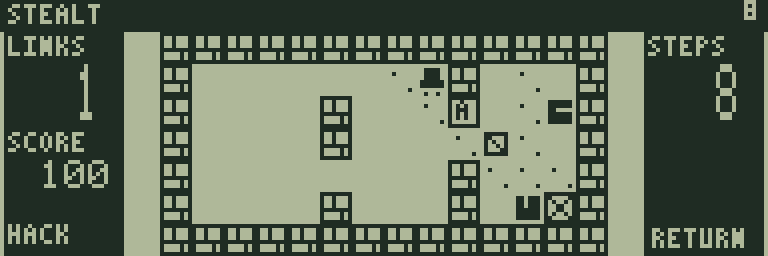
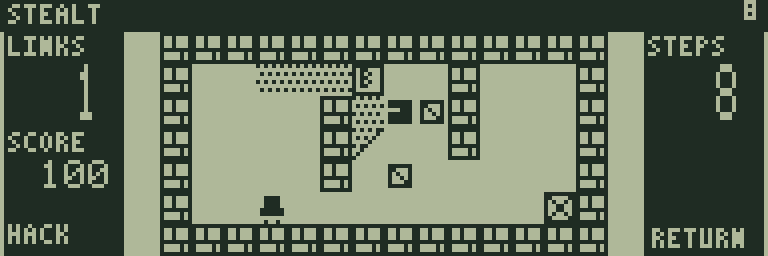
Render filled SIGNAL GHOST light cones and retune stealth stages

diff --git a/tests/game_rules_test.cpp b/tests/game_rules_test.cpp
@@ -525,8 +525,47 @@ int main(int argc,char** argv){try{
   for(unsigned wanted=0;wanted<12;++wanted){unsigned seed=1;while((((seed>>1)^((seed&1)?0xb8:0))%12)!=wanted)++seed;f.put("seed",seed);f.put("stage",2);f.put("rogue_floor",4);f.call("rogue_load_room");require(f.get("rogue_room")==wanted&&f.get("rogue_health")==12&&f.get("rogue_health",1)==7&&f.get("rogue_left")==3,"All twelve templates load their enemy spawns and selected-difficulty strong enemy");f.call("rogue_trace");for(unsigned p=0;p<98;++p)if(f.get("board",p)!=1)require(f.get("rogue_distance",p)!=255,"All items and exits remain connected in every template");}
  }
  if(selected("signal-ghost")){
-  Fixture f(root,"signal-ghost");const std::array<std::pair<int,int>,8> vectors{{{0,-1},{1,-1},{1,0},{1,1},{0,1},{-1,1},{-1,0},{-1,-1}}};std::uint32_t random=0x420042;
-  for(unsigned trial=0;trial<320;++trial){std::array<unsigned,98> board{},vision{};const std::array<unsigned,3> cameras{trial%98,(trial+33)%98,(trial+65)%98},bases{trial%4,(trial/3)%4,(trial/7)%4};const unsigned tick=trial%4,disabled=(trial/4)%4;for(unsigned p=0;p<98;++p){random=random*1664525U+1013904223U;board[p]=random%4==0?1:0;f.put("board",board[p],p);}for(unsigned actor=0;actor<3;++actor){board[cameras[actor]]=0;f.put("board",0,cameras[actor]);f.put("signal_cameras",cameras[actor],actor);f.put("signal_bases",bases[actor],actor);}for(unsigned actor=0;actor<3;++actor){if(disabled&(actor==1?2:1))continue;for(int ray=-1;ray<=1;++ray){const auto [dx,dy]=vectors[(static_cast<int>((bases[actor]+tick)*2)+ray+8)%8];int x=static_cast<int>(cameras[actor]%14),y=static_cast<int>(cameras[actor]/14);for(unsigned n=0;n<4;++n){x+=dx;y+=dy;if(x<0||x>=14||y<0||y>=7)break;const unsigned q=static_cast<unsigned>(y*14+x);if(board[q]==1||std::find(cameras.begin(),cameras.end(),q)!=cameras.end())break;vision[q]=1;}}}f.put("signal_tick",tick);f.put("signal_disabled",disabled);f.call("signal_trace");for(unsigned p=0;p<98;++p)require(f.get("signal_vision",p)==vision[p],"Rotating three-ray cameras clip edges and stop at walls or other cameras for every network mask");}
+  Fixture f(root,"signal-ghost");std::uint32_t random=0x420042;
+  const std::array<std::array<unsigned,2>,4> edge_shapes{{{2,1},{8,2},{4,8},{1,4}}};
+  for(unsigned trial=0;trial<320;++trial){
+   std::array<unsigned,98> board{},vision{},light{};
+   const std::array<unsigned,3> cameras{trial%98,(trial+33)%98,(trial+65)%98},bases{trial%4,(trial/3)%4,(trial/7)%4};
+   const unsigned tick=trial%4,disabled=(trial/4)%4;
+   for(unsigned p=0;p<98;++p){random=random*1664525U+1013904223U;board[p]=random%4==0?1:0;f.put("board",board[p],p);}
+   for(unsigned actor=0;actor<3;++actor){board[cameras[actor]]=0;f.put("board",0,cameras[actor]);f.put("signal_cameras",cameras[actor],actor);f.put("signal_bases",bases[actor],actor);}
+   for(unsigned actor=0;actor<3;++actor){
+    if(disabled&(actor==1?2:1))continue;
+    const unsigned facing=(bases[actor]+tick)%4;
+    for(int end=-4;end<=4;++end)for(int depth=1;depth<=4;++depth){
+     const int side=(end<0?-1:1)*((std::abs(end)*depth+2)/4);
+     int dx=side,dy=-depth;
+     for(unsigned turn=0;turn<facing;++turn){const int next=-dy;dy=dx;dx=next;}
+     const int x=static_cast<int>(cameras[actor]%14)+dx,y=static_cast<int>(cameras[actor]/14)+dy;
+     if(x<0||x>=14||y<0||y>=7)break;
+     const unsigned q=static_cast<unsigned>(y*14+x);
+     if(board[q]==1||std::find(cameras.begin(),cameras.end(),q)!=cameras.end())break;
+     vision[q]=1;light[q]|=std::abs(side)<depth?15:edge_shapes[facing][side>0];
+    }
+   }
+   f.put("signal_tick",tick);f.put("signal_disabled",disabled);f.call("signal_trace");
+   for(unsigned p=0;p<98;++p){
+    require(f.get("signal_vision",p)==vision[p],"Filled camera cones clip edges and stop at walls or cameras for every network mask");
+    require(f.get("signal_lightmask",p)==light[p],"Triangular light pieces combine as a union when cameras overlap");
+   }
+  }
+  const std::array<unsigned,4> origins{76,45,20,52};
+  for(unsigned facing=0;facing<4;++facing){
+   f.fill("board",98,0);f.put("signal_tick",0);f.put("signal_disabled",2);
+   for(unsigned actor:{0,2}){f.put("signal_cameras",origins[facing],actor);f.put("signal_bases",facing,actor);}
+   f.put("signal_cameras",0,1);f.call("signal_trace");
+   for(unsigned p=0;p<98;++p){
+    int side=static_cast<int>(p%14)-static_cast<int>(origins[facing]%14),forward=static_cast<int>(p/14)-static_cast<int>(origins[facing]/14);
+    for(unsigned turn=0;turn<facing;++turn){const int next=forward;forward=-side;side=next;}
+    forward=-forward;
+    const bool inside=forward>=1&&forward<=4&&std::abs(side)<=forward;
+    require(f.get("signal_vision",p)==static_cast<unsigned>(inside),"Every cell inside the ninety-degree cone is monitored, including former gaps between rays");
+   }
+  }
   f.fill("board",98,0);f.put("board",2,45);f.put("cursor",45);f.put("signal_cameras",43);f.put("signal_cameras",80,1);f.put("signal_cameras",30,2);f.put("signal_bases",0);f.put("signal_bases",0,1);f.put("signal_bases",1,2);f.put("signal_tick",0);f.put("signal_disabled",2);f.put("grid_stat",1);f.put("signal_score",0);f.put("signal_score",0,1);f.put("input_event",16);f.put("phase",2);f.call("game_update");require(f.get("signal_disabled")==3&&f.get("grid_stat")==0&&f.get("signal_score",1)==100&&f.get("phase")==2,"A terminal removes its entire network before the rotated view checks the player");f.call("game_update");require(f.get("signal_score",1)==100&&f.get("grid_stat")==0,"Disabled terminals cannot score or decrement links twice");
   for(unsigned moves:{0,99,100,254,255}){f.fill("board",98,0);f.put("board",4,45);f.put("cursor",45);f.put("signal_disabled",3);f.put("signal_score",0);f.put("signal_score",200,1);f.put("moves",moves);f.put("phase",2);f.call("signal_turn");const unsigned turns=std::min(255U,moves+1),score=200+(turns<100?100-turns:0);require(f.get("phase")==4&&f.get("moves")==turns&&f.get("signal_score")==score/256&&f.get("signal_score",1)==score%256,"Stealth completion bonus saturates safely across the step counter limit");}
  }

diff --git a/games/signal-ghost/generate.py b/games/signal-ghost/generate.py
@@ -4,14 +4,27 @@ from pathlib import Path
 sys.path.insert(0,str(Path(__file__).resolve().parents[1]/'tools'))
 from grid_assets import assets,Bitmap,asm_bytes
 root=Path(__file__).parent;dirs=[(0,-1),(1,-1),(1,0),(1,1),(0,1),(-1,1),(-1,0),(-1,-1)];steps=[-14,14,-1,1];keys=['up','down','left','right'];levels=[];solutions=[]
+# Nine endpoint rays cover the cone; half tiles smooth its diagonal boundaries.
+paths=[]
+for facing in range(4):
+ for edge in range(-4,5):
+  ray=[];previous=(0,0)
+  for distance in range(1,5):
+   side=(1 if edge>=0 else -1)*((abs(edge)*distance+2)//4)
+   x,y=side,-distance
+   for turn in range(facing):x,y=-y,x
+   direction=dirs.index((x-previous[0],y-previous[1]));previous=(x,y)
+   shape=15 if abs(side)<distance else ((2,1),(8,2),(4,8),(1,4))[facing][side>0]
+   ray.append((x,y,direction,shape))
+  paths.append(ray)
 def vision(b,cameras,bases,turn,disabled):
  lit=set()
  for actor,p in enumerate(cameras):
   if disabled&(2 if actor==1 else 1):continue
-  for ray in (-1,0,1):
-   dx,dy=dirs[((bases[actor]+turn)*2+ray)%8];x=p%14;y=p//14
-   for distance in range(4):
-    x+=dx;y+=dy
+  facing=(bases[actor]+turn)%4
+  for ray in paths[facing*9:facing*9+9]:
+   for dx,dy,_,_ in ray:
+    x=p%14+dx;y=p//14+dy
     if not(0<=x<14 and 0<=y<7):break
     q=y*14+x
     if b[q]==1 or q in cameras:break
@@ -66,14 +79,25 @@ for rows in [('010','101','111','101','101'),('110','101','110','101','110')]:
  s.append(b)
 b=Bitmap(8,8);b.rect(0,0,8,8);b.line(1,1,6,6);b.line(1,6,6,1);s.append(b)
 b=Bitmap(8,8);b.rect(0,0,8,8);b.line(2,2,5,2);b.line(2,4,5,4);b.line(2,6,5,6);s.append(b)
-b=Bitmap(8,8)
-for x,y in ((2,2),(6,6)):b.dot(x,y)
-s.append(b)
+def light_tile(mask):
+ b=Bitmap(8,8)
+ def inside(x,y):return bool((mask&1 and x+y<=7) or (mask&2 and x>=y) or (mask&4 and x<=y) or (mask&8 and x+y>=7))
+ for y in range(8):
+  for x in range(8):
+   if not inside(x,y):continue
+   boundary=any(0<=x+dx<8 and 0<=y+dy<8 and not inside(x+dx,y+dy) for dx,dy in ((0,-1),(0,1),(-1,0),(1,0)))
+   if boundary or y%2==0 and x%2==(y//2)%2:b.dot(x,y)
+ return b
+s.append(light_tile(1))
 for dx,dy in ((0,-1),(1,0),(0,1),(-1,0)):
  b=Bitmap(8,8);b.rect(1,1,6,6);b.rect(2,2,4,4,1,True);b.line(3,3,3+dx*3,3+dy*3,0);s.append(b)
 b=Bitmap(8,8);b.rect(2,1,4,3,1,True);b.rect(1,4,6,2,1,True);b.dot(2,7);b.dot(5,7);b.p=[[1-v for v in row] for row in b.p];s.append(b)
 b=Bitmap(8,8);b.rect(1,1,6,6);b.line(2,2,5,5);s.append(b)
+s.extend(light_tile(mask) for mask in range(2,16))
 raw=[]
 for l in levels:raw += [(l['board'][i]<<4)|l['board'][i+1] for i in range(0,98,2)]+l['cameras']+l['bases']
-assets(root,'SIGNAL GHOST','signal-ghost',14,7,1,1,s,20,'.section .extra, data\n'+asm_bytes('signal_levels',raw),aux=('WAIT','RESET'))
+shape_bits=[15,1,2,4,8]
+packed=[direction|(shape_bits.index(shape)<<3) for ray in paths for _,_,direction,shape in ray]
+extra='.section .extra, data\n'+asm_bytes('signal_levels',raw)+asm_bytes('signal_paths',packed)+asm_bytes('signal_shape_bits',shape_bits)+asm_bytes('signal_light_tiles',[0,6]+list(range(13,27)))
+assets(root,'SIGNAL GHOST','signal-ghost',14,7,1,1,s,20,extra,aux=('WAIT','RESET'))
 (root/'levels.json').write_text(json.dumps(levels)+'\n');(root/'solutions.json').write_text(json.dumps(solutions)+'\n');print('Certified 20 timed stealth routes:',','.join(str(len(p)) for p in solutions))

diff --git a/games/signal-ghost/README.md b/games/signal-ghost/README.md
@@ -12,7 +12,7 @@
 
 テンキー2468またはWASDで移動します。A・Bは壁ではなく、歩いて入れる端末のマスです。方向キーで自分の位置をAまたはBと重ねてからSPACEを押すと、その系統のカメラが止まります。端末に入るだけでは停止しません。端末以外、または停止済みの端末ではSPACEで1手待機します。壁やカメラへは進めず、ぶつかっても手は進みません。
 
-1手ごとにカメラが時計回りに90度回り、その後に視線を判定します。各カメラは正面と左右斜めの3方向へ4マス先まで見ます。壁や別のカメラに当たると、その先は見えません。カメラ内の白い切れ込みが正面の向き、床の点模様が現在の監視範囲です。動いた直後の向きで見つかるかどうかが決まります。現在は点がない場所でも、次の回転で監視範囲に入る場合があります。危ないときは安全なマスでSPACEを1回押して待ち、カメラの向きを変えてから進んでください。端末や出口の上も監視対象です。
+1手ごとにカメラが時計回りに90度回り、その後に視線を判定します。各カメラは正面へ90度に広がる三角形の範囲を、4マス先まで監視します。三角形の内側全体が監視対象です。壁や別のカメラに当たると、その先は見えません。カメラ内の白い切れ込みが正面の向き、床の網模様で塗られた三角形や四角い部分が、現在の監視範囲です。重なった光も同じ監視範囲として扱います。動いた直後の向きで見つかるかどうかが決まります。現在は光がない場所でも、次の回転で監視範囲に入る場合があります。危ないときは安全なマスでSPACEを1回押して待ち、カメラの向きを変えてから進んでください。端末や出口の上も監視対象です。
 
 端末Aは2台、Bは1台のカメラを停止します。SPACEで停止を実行した手では、その系統の視線が消えた後で判定します。停止した機器は斜線入りの四角に変わります。停止済みカメラも障害物として残ります。LINKSを0にすると出口の×印が横線に変わり、そこへ進めばクリアです。
 
